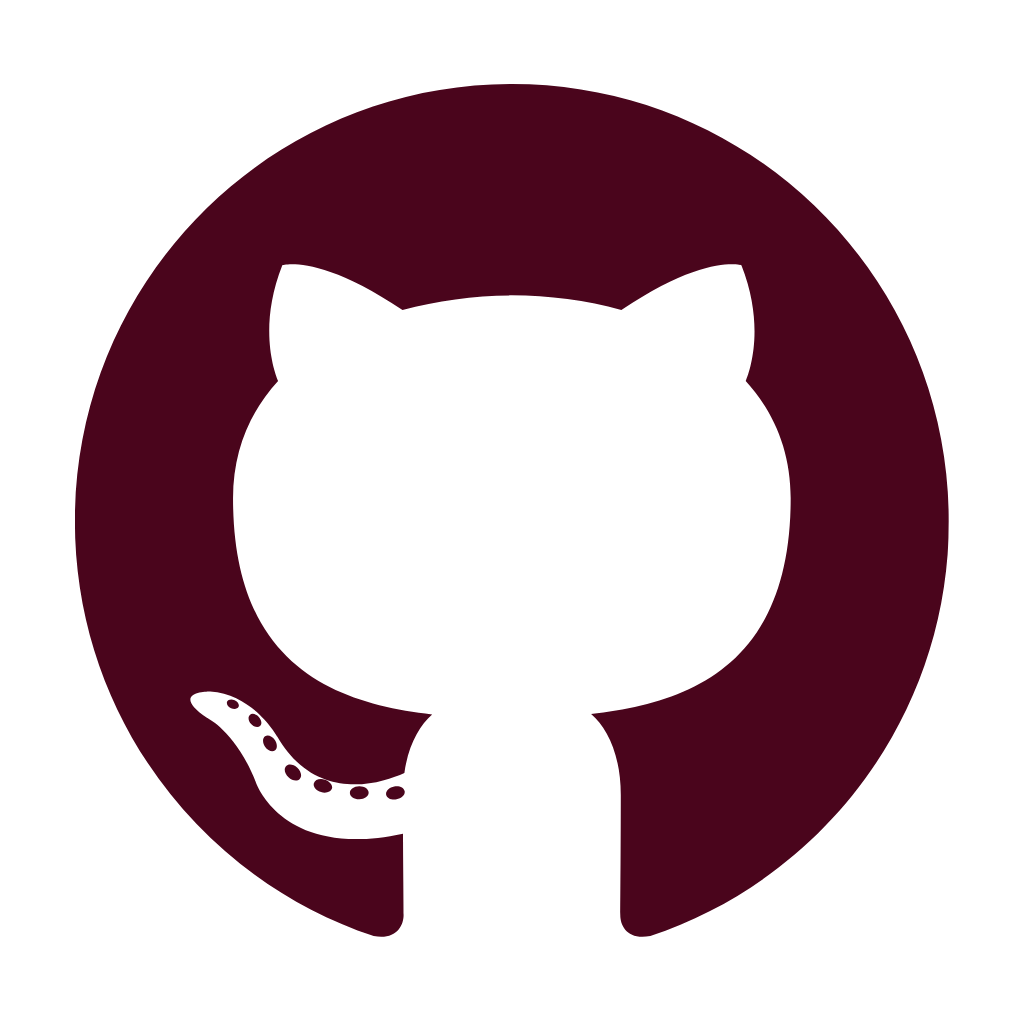
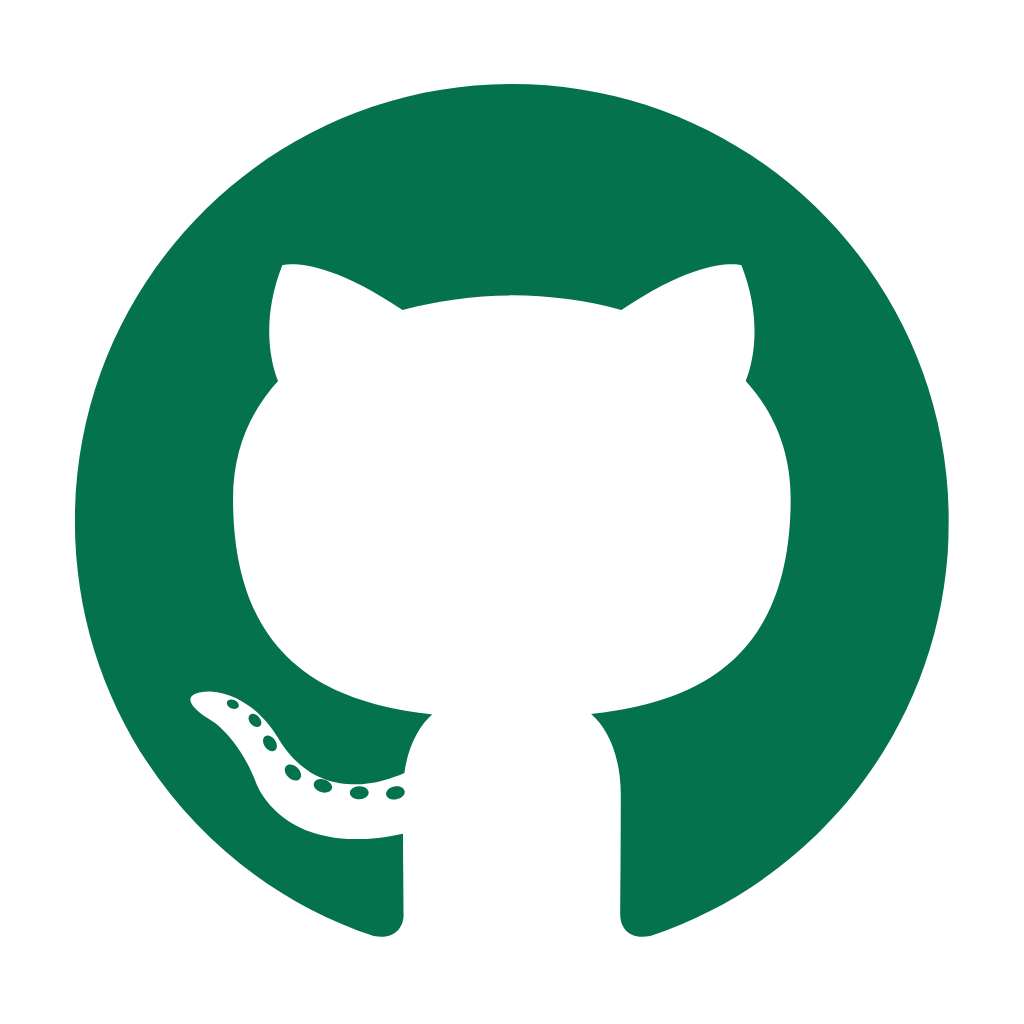
new scheme

diff --git a/style.css b/style.css
@@ -71,7 +71,7 @@ main {
 
 #title {
     font-size: 20px;
-    color: #255C99;
+    color: #53243A;
     margin-top: -10px;
 }
 
@@ -86,7 +86,7 @@ main {
 }
 
 .sectionHeader {
-    color: #04724D;
+    color: #255C99;
     font-size: 30px;
     text-align: center;
 }
@@ -210,7 +210,7 @@ main {
     padding: 20px;
     align-items: flex-start;
     justify-content: space-evenly;
-    background-color: #255C99;
+    background-color: #53243A;
     border-radius: 33px;
     box-shadow: 5px 5px 20px gray;
 }
